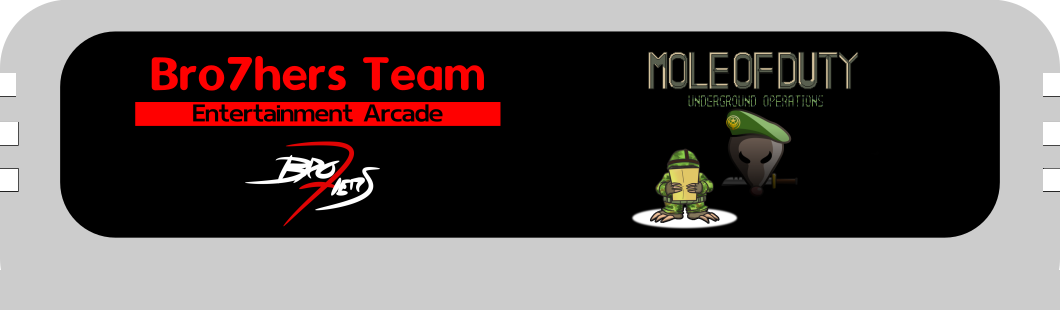
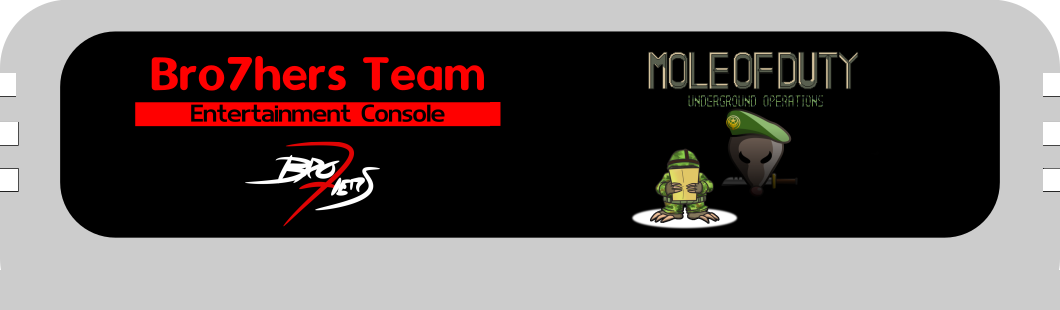
Replaced arcade concept by console

Changed region(s): [[0.1245, 0.3194, 0.4358, 0.4355]]

diff --git a/js/console.js b/js/console.js
@@ -24,17 +24,17 @@ function setBro(broName) {
 
 function setGame (gameName) {
     if(gameName === "gob") {
-        $("#arcadeSection").html("<iframe src=\"https://itch.io/embed-upload/117126?color=f28112\" allowfullscreen=\"\" width=\"640\" height=\"500\" frameborder=\"0\"><a href=\"https://bro7hers.itch.io/game-of-box\">Play GAME OF BOX on itch.io</a></iframe>")
+        $("#consoleSection").html("<iframe src=\"https://itch.io/embed-upload/117126?color=f28112\" allowfullscreen=\"\" width=\"640\" height=\"500\" frameborder=\"0\"><a href=\"https://bro7hers.itch.io/game-of-box\">Play GAME OF BOX on itch.io</a></iframe>")
         $("#gameCartridge img").attr("src","img/gobCartridge.png")
     }
 
     if(gameName === "mod") {
-        $("#arcadeSection").html("<iframe src=\"https://itch.io/embed-upload/1796782?color=0b450b\" allowfullscreen=\"\" width=\"640\" height=\"500\" frameborder=\"0\"><a href=\"https://bro7hers.itch.io/mole-of-duty\">Play MOLE OF DUTY on itch.io</a></iframe>")
+        $("#consoleSection").html("<iframe src=\"https://itch.io/embed-upload/1796782?color=0b450b\" allowfullscreen=\"\" width=\"640\" height=\"500\" frameborder=\"0\"><a href=\"https://bro7hers.itch.io/mole-of-duty\">Play MOLE OF DUTY on itch.io</a></iframe>")
         $("#gameCartridge img").attr("src","img/modCartridge.png")
     }
 }
 
-$("#arcadeNavbar img").click(function() {
+$("#consoleNavbar img").click(function() {
     window.location.href = "index.html";
 });
 

diff --git a/index.html b/index.html
@@ -30,14 +30,12 @@
     <p class="kapsText">Si oui, alors bienvenue, et merci !!</p>
 </section>
 <section id="gameSection">
-    <h2 class="pixelTitle">SELECT THE LEVEL</h2>
+    <h2 class="pixelTitle">SELECT THE STAGE</h2>
     <nav id="gameNavbar">
         <img src="img/leftArrow.png" class="arrows leftArrow">
         <img src="img/rightArrow.png" class="arrows rightArrow"></nav>
     <div id="gameScroll">
         <div class="gameWrapper">
-           <!-- <nav id="gameNavbar">
-                <img src="img/rightArrow.png" class="arrows rightArrow"></nav> -->
             <img class="gamePicture" src="img/gobBanner.png">
             <p class="gameDescription kapsText">
                 Game of BOX a été créé pour le concours Game à Niaque 2015 sur le thème de la "boite".
@@ -46,7 +44,6 @@
             </p>
         </div>
         <div class="gameWrapper">
-         <!--   <nav id="gameNavbar"><img src="img/leftArrow.png" class="arrows leftArrow"></nav> -->
             <img class="gamePicture" src="img/modBanner.png">
             <p class="gameDescription kapsText">
                 Notre participation au "Underground Jam" sur le site Scirra (Construct 2 et 3) en 2015 !
@@ -69,7 +66,7 @@
     </p>
 </section>
 
-<nav id="arcadeLink"><img src="img/arcadeIcon.png" alt="arcadeLink"></nav>
+<nav id="consoleLink"><img src="img/gamepadIcon.png" alt="consoleLink"></nav>
 <h2 class="pixelTitle">PRESS START</h2>
 
 <footer>

diff --git a/css/main.css b/css/main.css
@@ -149,7 +149,7 @@ p.gameDescription {
     text-align: center;
 }
 
-#arcadeLink + .pixelTitle {
+#consoleLink + .pixelTitle {
     margin-top: 0;
     animation-name: pressStart;
     animation-iteration-count: infinite;
@@ -157,15 +157,15 @@ p.gameDescription {
     animation-timing-function: step-start;
 }
 
-#arcadeLink {
+#consoleLink {
     text-align: center;
     margin-top: 40px;
 }
 
-#arcadeLink img {
-    width:150px;
+#consoleLink img {
+    width:100px;
 }
-#arcadeLink img:hover {
+#consoleLink img:hover {
     cursor: pointer;
     animation-name: shakeArcade;
     animation-iteration-count: 3;
@@ -243,7 +243,7 @@ footer img:hover{
     width:120px;
 }
 
-#playerBar, #gameCartridge, #arcadeNavbar, #arcadeSection {
+#playerBar, #gameCartridge, #consoleNavbar, #consoleSection {
     text-align: center;
 }
 
@@ -256,7 +256,7 @@ footer img:hover{
     z-index: -10000;
 }
 
-#arcadeNavbar img {
+#consoleNavbar img {
     margin-top:40px;
     width : 130px;
     animation-name: blink;

diff --git a/console.html b/console.html
@@ -24,11 +24,11 @@
 <aside id="gameCartridge">
     <img src="img/gobCartridge.png" alt="bro7hers game cartridge">
 </aside>
-<section id="arcadeSection">
+<section id="consoleSection">
 
 </section>
 
-<nav id="arcadeNavbar"><img src="img/exitDoor.png" alt="exitDoor"></nav>
+<nav id="consoleNavbar"><img src="img/exitDoor.png" alt="exitDoor"></nav>
 
 <footer>
     <a href="https://www.facebook.com/bro7hers/"><img src="img/fb_icon.png" alt="Facebook"/></a>
@@ -38,7 +38,7 @@
 
 </body>
 
-<script src="js/arcade.js"></script>
+<script src="js/console.js"></script>
 
 
 </html>

diff --git a/js/index.js b/js/index.js
@@ -86,8 +86,8 @@ function isMaxScrollLeft() {
 }
 
 
-$("#arcadeLink img").click(function() {
+$("#consoleLink img").click(function() {
     let selectedBro = broId.split("-")[0];
     let selectedGame = games[currentScrollIndex];
-    window.location.href = `arcade.html?bro=${selectedBro}&game=${selectedGame}`;
+    window.location.href = `console.html?bro=${selectedBro}&game=${selectedGame}`;
 });
